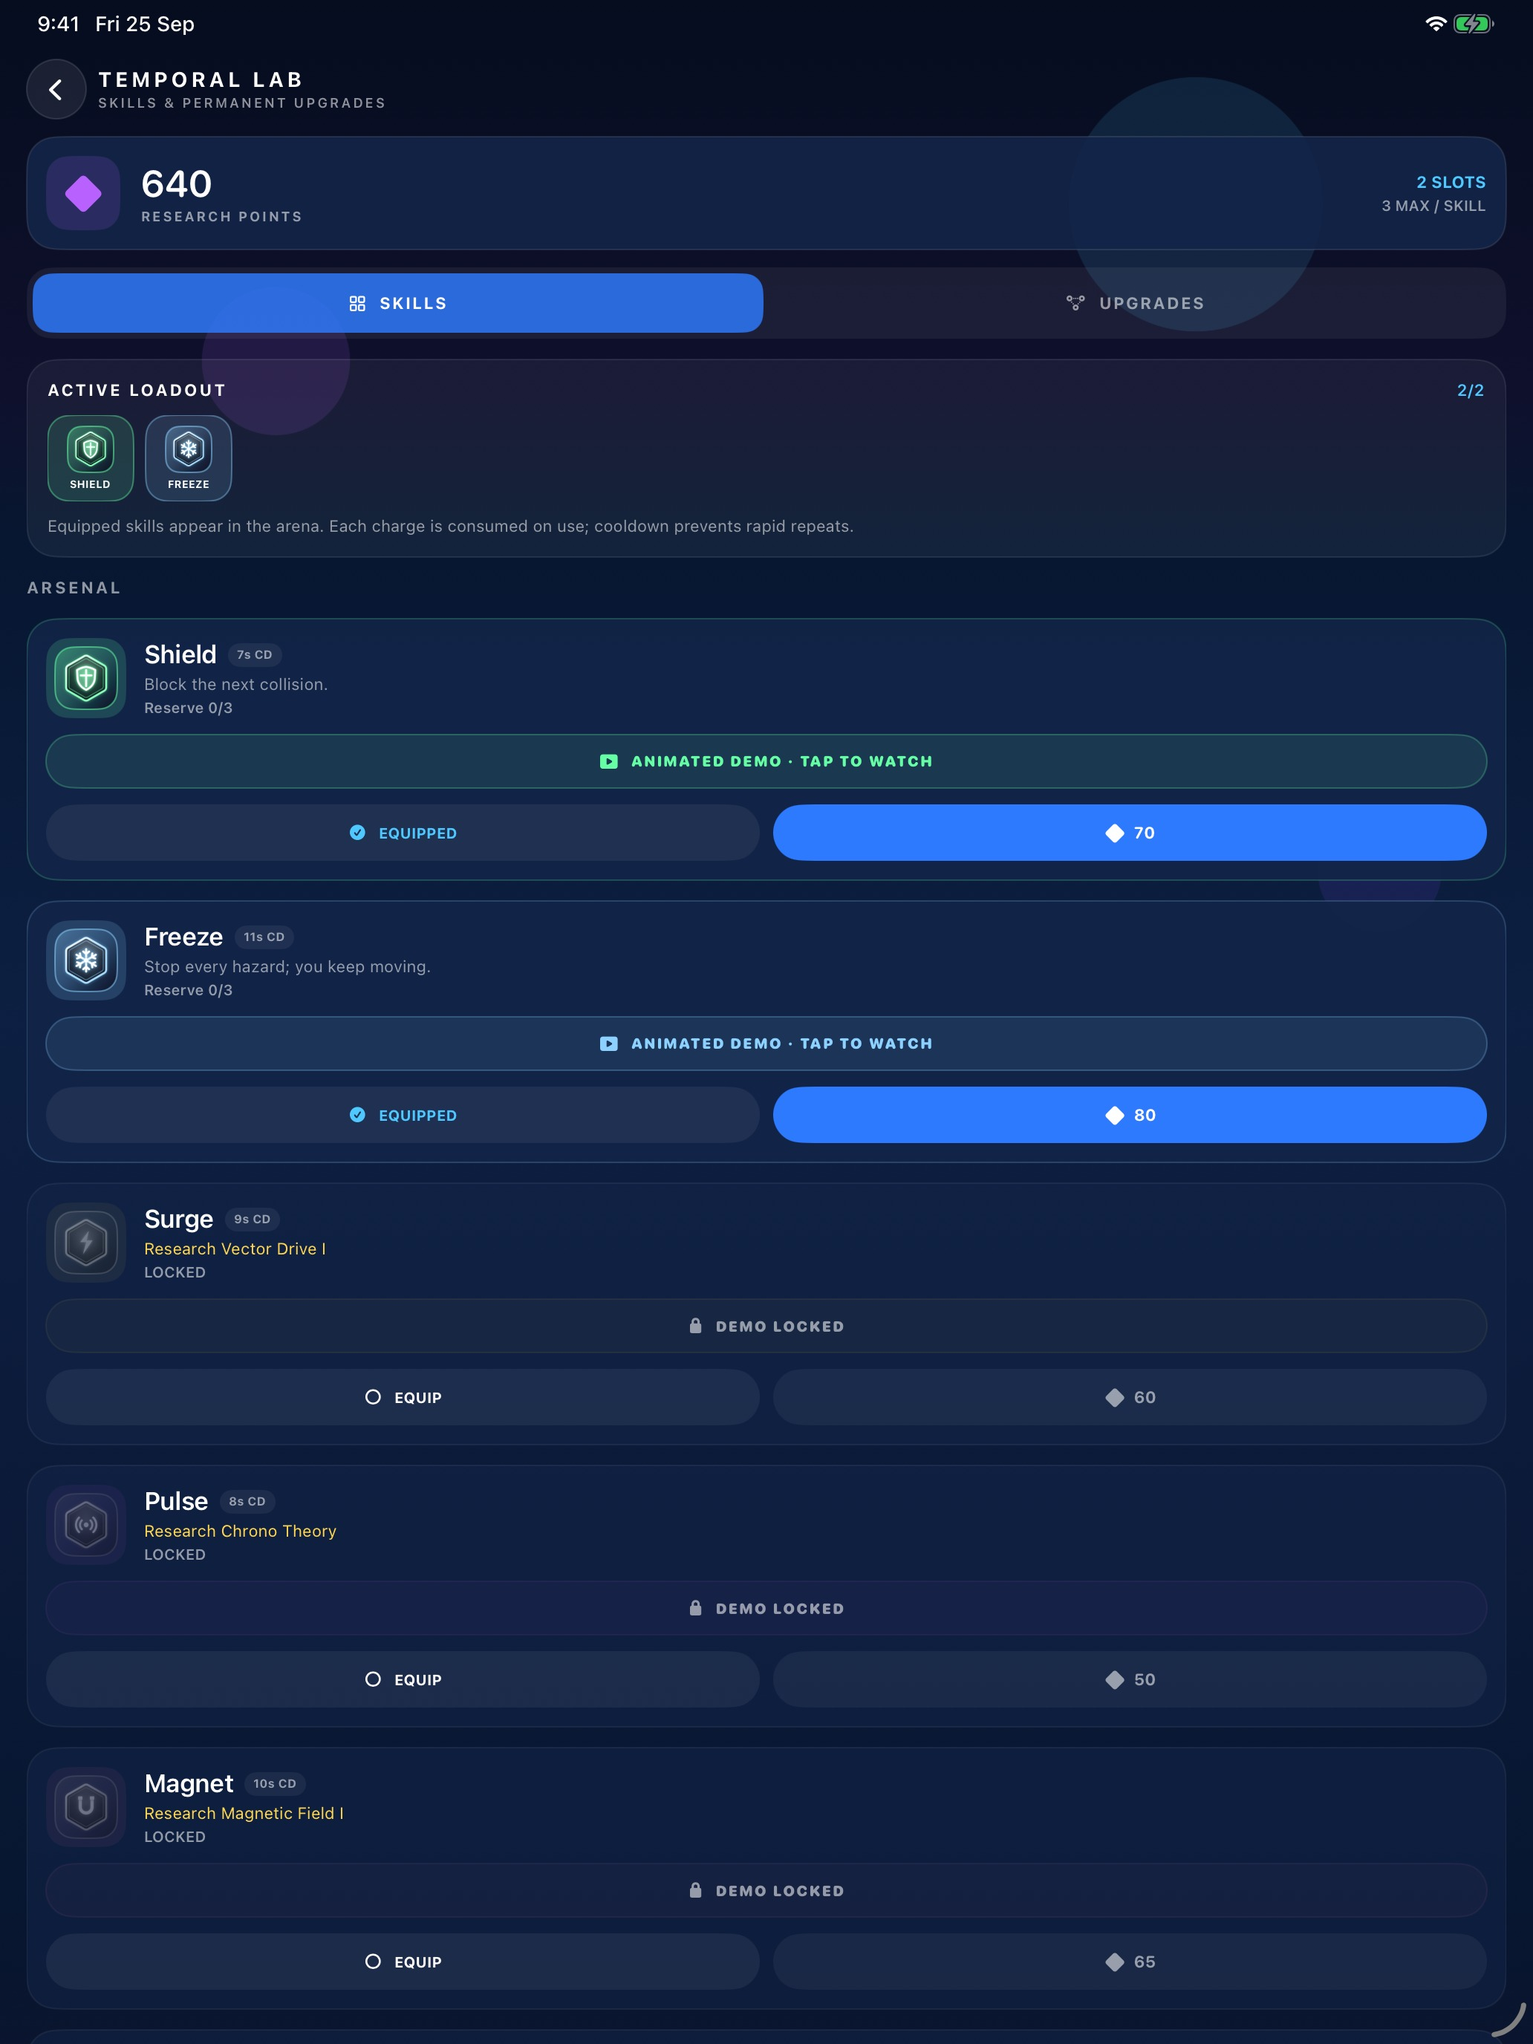
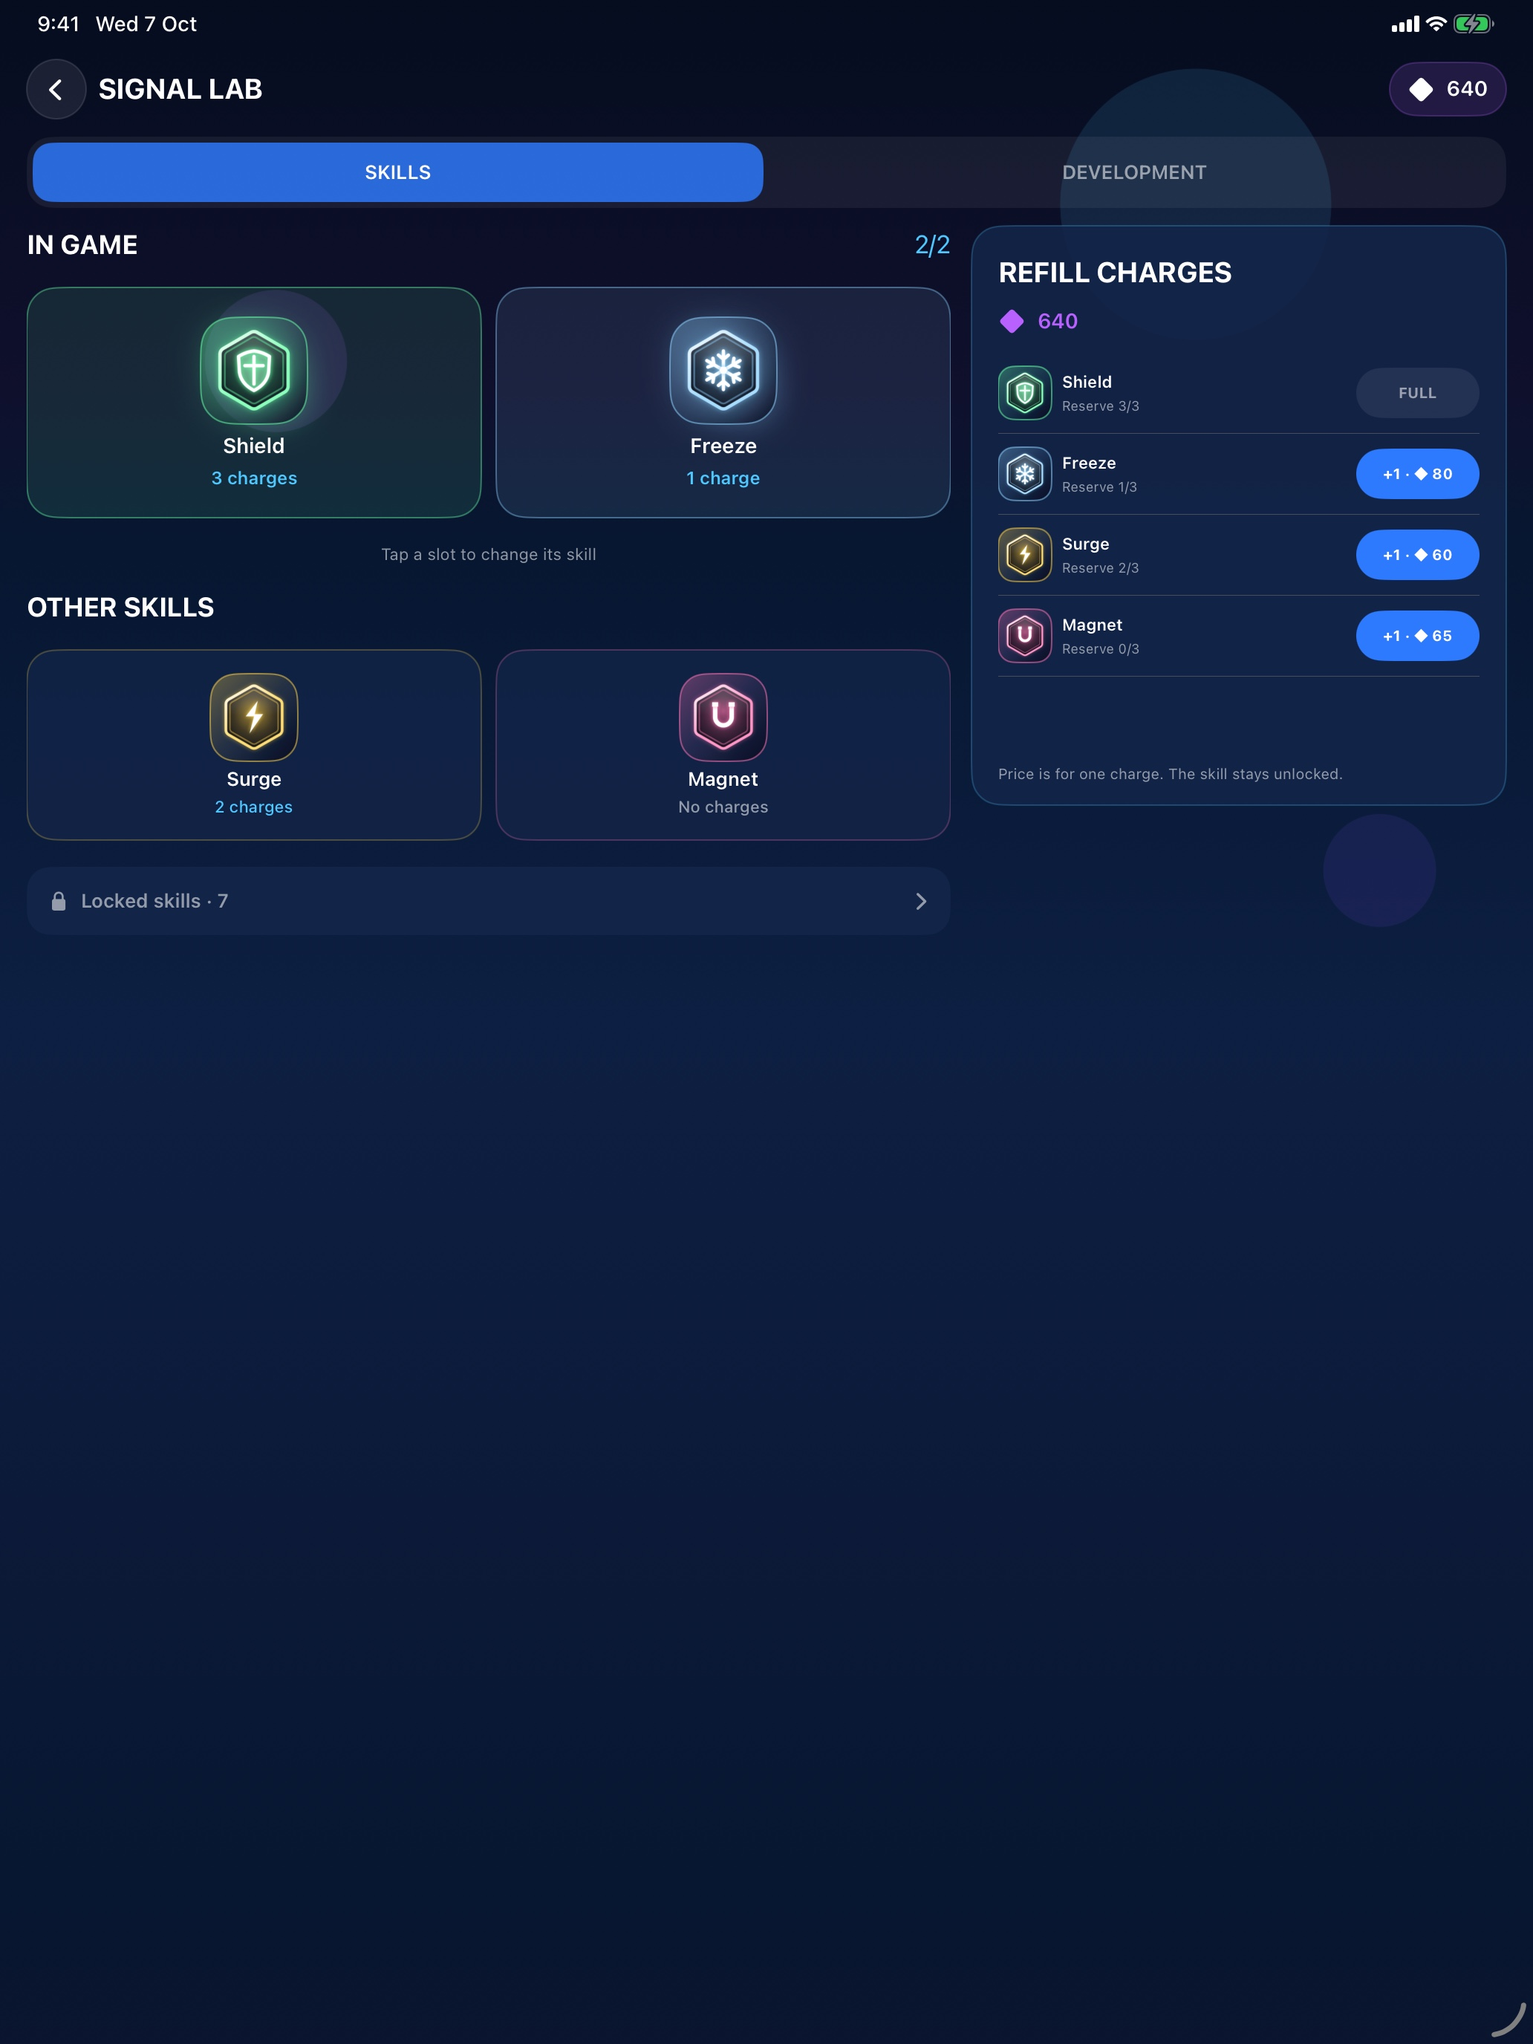
Adapt laboratory for Duo and refresh App Store media

diff --git a/Echo/Shell/Lab/ShopView.swift b/Echo/Shell/Lab/ShopView.swift
@@ -38,7 +38,7 @@ struct ShopView: View {
     @State var selectedResearch: UpgradeKind = .velocity
     @State var slotPickerOpen = false
     @State var editingSlot = 0
-    @State var rechargeOpen = false
+    @State var rechargeOpen = ProcessInfo.processInfo.arguments.contains("-shot-recharge")
     @State var lockedSkillsExpanded = false
 
     init(
@@ -85,39 +85,21 @@ struct ShopView: View {
     }
 
     var body: some View {
-        ZStack {
-            ScreenBackground()
-            VStack(spacing: 12) {
-                header
-                sectionPicker
-
-                ScrollViewReader { scroll in
-                    ScrollView(showsIndicators: false) {
-                        Group {
-                            switch section {
-                            case .loadout:
-                                loadoutSection
-                            case .research:
-                                researchSection
-                            }
-                        }
-                        .padding(.bottom, section == .loadout ? 12 : 0)
-                    }
-                    .onChange(of: selectedResearch) { _, kind in
-                        guard section == .research else { return }
-                        withAnimation(.easeInOut(duration: 0.24)) {
-                            scroll.scrollTo(kind, anchor: .center)
-                        }
+        GeometryReader { geometry in
+            ZStack {
+                ScreenBackground()
+                VStack(spacing: 12) {
+                    header
+                    sectionPicker
+                    if LabLayout.usesSidePanels(width: geometry.size.width) {
+                        expandedContent(width: geometry.size.width - 36, height: geometry.size.height)
+                    } else {
+                        compactContent
                     }
                 }
-                if section == .research {
-                    selectedResearchCard(selectedResearch)
-                } else {
-                    rechargeButton
-                }
+                .padding(.horizontal, 18)
+                .padding(.top, hostTopInset + 8)
             }
-            .padding(.horizontal, 18)
-            .padding(.top, hostTopInset + 8)
         }
         .sheet(item: $inspectedUpgrade) { kind in
             researchInspector(kind)
@@ -146,6 +128,61 @@ struct ShopView: View {
                 .presentationDragIndicator(.visible)
                 .presentationCornerRadius(30)
                 .presentationBackground(EchoTheme.navyDeep)
+        }
+    }
+
+    /// The Duo's inner display has room to keep the next action beside the list.
+    @ViewBuilder
+    func expandedContent(width: CGFloat, height: CGFloat) -> some View {
+        switch section {
+        case .loadout:
+            HStack(alignment: .top, spacing: 14) {
+                ScrollView(showsIndicators: false) {
+                    loadoutSection.padding(.bottom, 12)
+                }
+                rechargePanel
+                    .frame(width: min(360, width * 0.42))
+                    .frame(height: min(390, max(260, height - 160)))
+            }
+        case .research:
+            HStack(alignment: .top, spacing: 14) {
+                researchScroll
+                ScrollView(showsIndicators: false) {
+                    selectedResearchCard(selectedResearch)
+                        .padding(.bottom, 12)
+                }
+                .frame(width: min(320, width * 0.44))
+            }
+        }
+    }
+
+    var compactContent: some View {
+        VStack(spacing: 12) {
+            researchScroll
+            if section == .research {
+                selectedResearchCard(selectedResearch)
+            } else {
+                rechargeButton
+            }
+        }
+    }
+
+    var researchScroll: some View {
+        ScrollViewReader { scroll in
+            ScrollView(showsIndicators: false) {
+                Group {
+                    switch section {
+                    case .loadout: loadoutSection.padding(.bottom, 12)
+                    case .research: researchSection
+                    }
+                }
+            }
+            .onChange(of: selectedResearch) { _, kind in
+                guard section == .research else { return }
+                withAnimation(.easeInOut(duration: 0.24)) {
+                    scroll.scrollTo(kind, anchor: .center)
+                }
+            }
         }
     }
 
@@ -271,4 +308,8 @@ enum LabSection: String, CaseIterable {
         case .research: "point.3.connected.trianglepath.dotted"
         }
     }
+}
+
+enum LabLayout {
+    static func usesSidePanels(width: CGFloat) -> Bool { width >= 620 }
 }

diff --git a/Echo/Shell/Lab/ShopInspectors.swift b/Echo/Shell/Lab/ShopInspectors.swift
@@ -353,10 +353,20 @@ extension ShopView {
         .padding(.horizontal, 18)
     }
 
+    var rechargePanel: some View {
+        rechargeContent(compact: true)
+            .background(EchoTheme.panel.opacity(0.92), in: RoundedRectangle(cornerRadius: 20))
+            .overlay(RoundedRectangle(cornerRadius: 20).stroke(EchoTheme.cyan.opacity(0.25), lineWidth: 1))
+    }
+
     var rechargeSheet: some View {
+        rechargeContent(compact: false)
+    }
+
+    func rechargeContent(compact: Bool) -> some View {
         VStack(alignment: .leading, spacing: 12) {
             Text(Copy.text("lab.recharge.title"))
-                .font(.system(size: 23, weight: .bold))
+                .font(.system(size: compact ? 19 : 23, weight: .bold))
                 .padding(.top, 20)
             Label("\(model.progress.points)", systemImage: "diamond.fill")
                 .font(.system(size: 14, weight: .semibold))
@@ -366,22 +376,27 @@ extension ShopView {
                     ForEach(BonusKind.allCases.filter { $0.canBuy && model.progress.isSkillUnlocked($0) }) { kind in
                         let owned = model.progress.count(kind)
                         let full = owned >= model.progress.inventoryCapacity
-                        HStack(spacing: 12) {
-                            AbilityIconView(kind: kind, size: 48)
+                        HStack(spacing: compact ? 7 : 12) {
+                            AbilityIconView(kind: kind, size: compact ? 36 : 48)
                             VStack(alignment: .leading, spacing: 4) {
                                 Text(kind.title)
-                                    .font(.system(size: 14, weight: .semibold))
+                                    .font(.system(size: compact ? 11 : 14, weight: .semibold))
+                                    .lineLimit(1)
+                                    .minimumScaleFactor(0.75)
                                 Text(Copy.format("lab.skill.reserve", owned, model.progress.inventoryCapacity))
-                                    .font(.system(size: 11))
+                                    .font(.system(size: compact ? 9 : 11))
                                     .foregroundStyle(EchoTheme.muted)
+                                    .lineLimit(1)
+                                    .minimumScaleFactor(0.75)
                             }
-                            Spacer(minLength: 4)
+                            Spacer(minLength: 0)
                             Button { buy(kind) } label: {
                                 Text(full ? Copy.text("lab.skill.full") : Copy.format("lab.recharge.price", model.progress.skillPrice(kind)))
-                                    .font(.system(size: 12, weight: .bold))
+                                    .font(.system(size: compact ? 10 : 12, weight: .bold))
                                     .foregroundStyle(model.progress.canBuy(kind) ? .white : EchoTheme.muted)
-                                    .frame(minWidth: 105)
-                                    .frame(height: 39)
+                                    .lineLimit(1)
+                                    .minimumScaleFactor(0.7)
+                                    .frame(width: compact ? 83 : 105, height: compact ? 34 : 39)
                                     .background(model.progress.canBuy(kind) ? EchoTheme.primaryBlue : Color.white.opacity(0.07), in: Capsule())
                             }
                             .buttonStyle(PressStyle())

diff --git a/EchoTests/Shell/Lab/LabCoverageTests.swift b/EchoTests/Shell/Lab/LabCoverageTests.swift
@@ -1,4 +1,5 @@
 import XCTest
+import SwiftUI
 @testable import Echo
 
 @MainActor
@@ -54,5 +55,37 @@ final class LabCoverageTests: XCTestCase {
                 }
             }
         }
+    }
+
+    func testDuoOuterAndInnerDisplayLayouts() {
+        // Duo screenshots use 1398 × 2034 and 2007 × 2853 pixels at 3×.
+        let outer = CGSize(width: 466, height: 678)
+        let inner = CGSize(width: 669, height: 951)
+        XCTAssertFalse(LabLayout.usesSidePanels(width: outer.width))
+        XCTAssertTrue(LabLayout.usesSidePanels(width: inner.width))
+
+        let model = CoverageFixtures.model(rich: false)
+        model.progress.debugLabShowcase()
+        for size in [outer, inner] {
+            let loadout = CoverageHost.render(ShopView(section: .loadout).environment(model), size: size)
+            XCTAssertEqual(loadout.bounds.size, size)
+            attachScreenshot(loadout, name: size == outer ? "duo-outer-loadout" : "duo-inner-loadout")
+            let research = CoverageHost.render(ShopView(section: .research).environment(model), size: size)
+            XCTAssertEqual(research.bounds.size, size)
+            attachScreenshot(research, name: size == outer ? "duo-outer-research" : "duo-inner-research")
+        }
+    }
+
+    private func attachScreenshot(_ view: UIView, name: String) {
+        let format = UIGraphicsImageRendererFormat()
+        format.scale = 3
+        format.opaque = true
+        let image = UIGraphicsImageRenderer(size: view.bounds.size, format: format).image { _ in
+            XCTAssertTrue(view.drawHierarchy(in: view.bounds, afterScreenUpdates: true))
+        }
+        let attachment = XCTAttachment(image: image)
+        attachment.name = name
+        attachment.lifetime = .keepAlways
+        add(attachment)
     }
 }

diff --git a/Echo/App/AppModel.swift b/Echo/App/AppModel.swift
@@ -85,6 +85,7 @@ final class AppModel {
             progress.markTutorialSeen()
             screen = .daily
         } else if args.contains("-shot-shop")
+            || args.contains("-shot-recharge")
             || args.contains("-shot-research")
             || args.contains("-shot-research-loadout")
             || args.contains("-shot-research-time")
@@ -94,6 +95,9 @@ final class AppModel {
             || args.contains("-shot-tech-loadout")
             || args.contains("-shot-tech-temporal")
             || args.contains("-shot-ability") {
+#if DEBUG
+            progress.debugLabShowcase()
+#endif
             progress.markTutorialSeen()
             screen = .shop
         } else if args.contains(where: { $0.hasPrefix("-shot-wiki") }) {

diff --git a/Echo/Simulation/Progress/ProgressCampaign.swift b/Echo/Simulation/Progress/ProgressCampaign.swift
@@ -128,5 +128,17 @@ extension ProgressStore {
         shards = max(shards, 640)
         persist()
     }
+
+    func debugLabShowcase() {
+        upgrades[UpgradeKind.velocity.rawValue] = 2
+        upgrades[UpgradeKind.dashCapacitor.rawValue] = 1
+        upgrades[UpgradeKind.magnetism.rawValue] = 1
+        inventory[BonusKind.shield.rawValue] = 3
+        inventory[BonusKind.freeze.rawValue] = 1
+        inventory[BonusKind.surge.rawValue] = 2
+        inventory[BonusKind.magnet.rawValue] = 0
+        shards = 640
+        persist()
+    }
 #endif
 }

diff --git a/docs/APP_STORE_RELEASE.md b/docs/APP_STORE_RELEASE.md
@@ -1,6 +1,6 @@
 # ECHO App Store release guide
 
-App Store Connect record: [ECHO: Survive Your Past](https://appstoreconnect.apple.com/apps/6811673094/distribution/ios/version/inflight). App ID `com.sergiiziborov.Echo`. Version **1.0.0**, current build **18**. The listing is not public yet.
+App Store Connect record: [ECHO: Survive Your Past](https://appstoreconnect.apple.com/apps/6811673094/distribution/ios/version/inflight). App ID `com.sergiiziborov.Echo`. Version **1.0.0**, local project build **20**. The listing is not public yet.
 
 ## Price and product type
 
@@ -8,25 +8,27 @@ Intended sale: **$1.99 USD one-time iOS app**. No ads, no in-app purchases, no s
 
 ## TestFlight / Xcode Cloud
 
-`project.yml` and the generated Xcode project use marketing version **1.0.0** and build **18**. Xcode Cloud numbers its own builds, so set its next build number above the last uploaded build. `ci_scripts/ci_post_clone.sh` installs XcodeGen if needed and regenerates the project.
+`project.yml` and the generated Xcode project use marketing version **1.0.0** and local build **20**. Xcode Cloud numbers its own builds. `ci_scripts/ci_post_clone.sh` installs XcodeGen if needed and regenerates the project.
 
 After signing in to App Store Connect:
 
 1. Connect an Xcode Cloud workflow to `sergii-ziborov/Echo` on `main`.
 2. Use **Archive - iOS**, **App Store Connect** distribution, and **TestFlight Internal Testing**.
-3. Confirm the processed build is 1.0.0 (20) or later before assigning testers.
+3. Confirm that the latest processed build is available to the Keepers internal group.
 
 Suggested **What to Test**: region arrival cards and the Atlas route (Möbius loop, region skies); Deep Time; the Apple Watch app on its own and as a remote for a phone run; Settings → About / Terms / Privacy / Report a bug.
 
 ## Prepared assets
 
-Screenshots are opaque JPEGs captured from the running app:
+The iPhone, iPad and Watch screenshots are opaque JPEGs captured from the running app. Duo uses opaque PNG renderings of the same SwiftUI views at its display sizes:
 
 | Group | Size | Folder |
 | --- | --- | --- |
 | iPhone 6.9-inch | 1320 × 2868 | `docs/app-store/iphone/` |
 | iPhone 6.5-inch | 1284 × 2778 | `docs/app-store/iphone65/` |
 | iPad 13-inch | 2064 × 2752 | `docs/app-store/ipad/` |
+| iPhone Duo outer display | 1398 × 2034 | `docs/app-store/duo/` |
+| iPhone Duo inner display | 2007 × 2853 | `docs/app-store/duo/` |
 | Apple Watch 46 mm | 416 × 496 | `docs/app-store/watch/` |
 
 Keep the two iPhone groups separate in App Store Connect. The first image in each group is gameplay, not a splash screen.
@@ -44,6 +46,12 @@ Keep the two iPhone groups separate in App Store Connect. The first image in eac
 | `menu/09-home.jpg` | `06-home.jpg` | Home screen |
 
 Apple Watch (`watch/`): `01-wrist-run.jpg`, `02-wrist-maps.jpg`, `03-relics.jpg`, `04-skills.jpg`.
+
+The Lab captures now show the simplified loadout, exact research dependencies and live upgrade effects. `menu/10-recharge.jpg` shows the one-charge prices on both iPhone sizes. Regenerate these captures from the running Debug app with `scripts/capture_lab_shots.sh`.
+
+The Duo images are rendered from the actual SwiftUI Lab at Apple's outer and inner display sizes by `LabCoverageTests.testDuoOuterAndInnerDisplayLayouts`. Xcode 27.0 on this Mac does not include a Duo simulator, so the test verifies layout at the exact viewports but does not replace a device or Duo simulator run. Recheck both displays when that simulator is installed.
+
+The iOS and Watch icons are included in the uploaded build's asset catalog and appear under **Included Assets** after a build is associated with version 1.0.0. The generic thumbnail in Xcode Cloud's navigation is a separate App Store Connect display state.
 
 ## English (U.S.) listing
 
